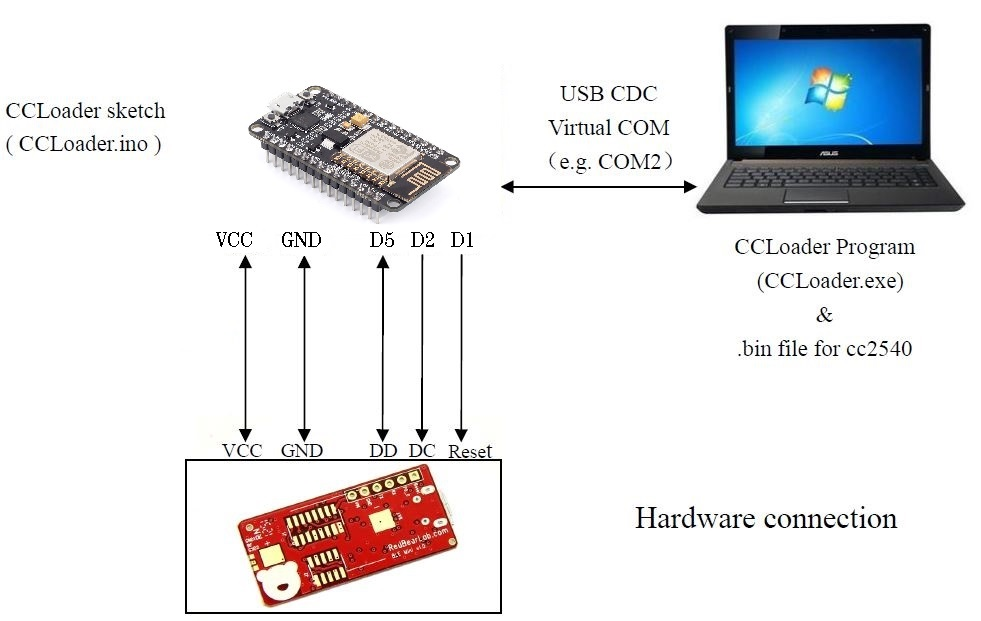
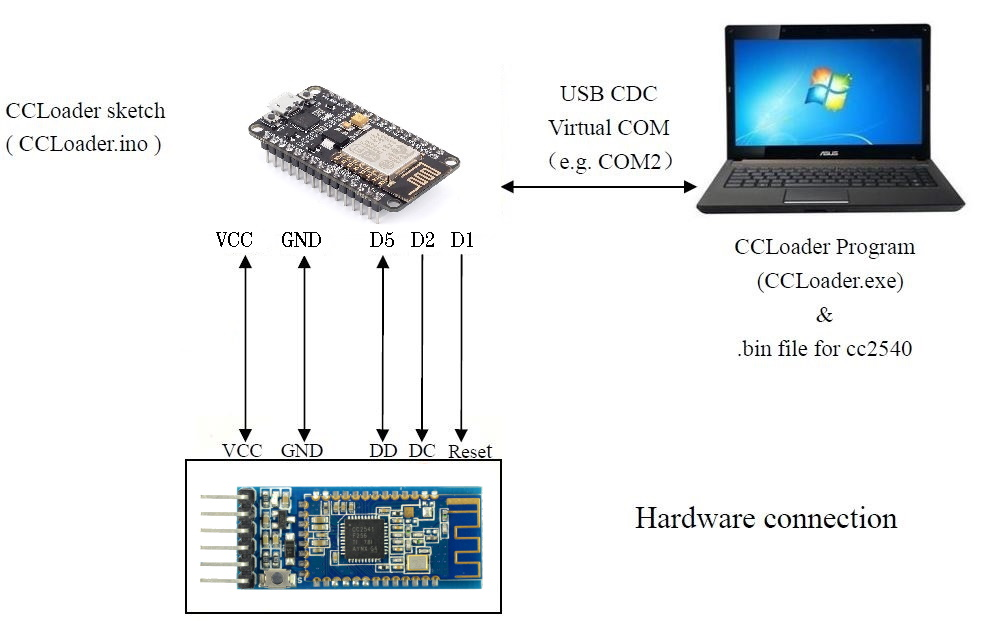
added images, cleared up flashing instructions

Changed region(s): [[0.1835, 0.7343, 0.4893, 0.9791]]

diff --git a/README.md b/README.md
@@ -5,27 +5,44 @@ Burn CC25xx/HM10 firmware using a NodeMCU or Wemos D1 mini.
 
 Flashing CC2530 or CC2531
 ==========================
-Use the files provided in folder [`Bin`](/Bin) The Hex files are already converted and ready to flash via CCLoader<br>
-More [Zigbee](https://www.zigbee2mqtt.io/information/alternative_flashing_methods.html) infos.
+Use the files provided in folder [`Bin`](/Bin). The Hex files are already converted and ready to flash with CCLoader<br>
+More [Zigbee](https://www.zigbee2mqtt.io/information/alternative_flashing_methods.html) information.
 
 Flashing HM10
 ==========================
-1. Load the already compiled [CCLoader Arduino firmware](/Bin/CCLoader_Arduino.bin) to the MCU board.
+1. Load the already compiled [CCLoader Arduino firmware](/Bin/CCLoader_Arduino.bin) to a NodeMCU/Wemos board.
 
-  ![image](hm-10-pinout.png)
-  ![image](cc2541_pin.png)
   
-2. Wire the pins:  
-  - DD (DEBUG_DATA Pin 8) to GPIO14 (D5 on NodeMCU/WeMos D1 Mini) <br>
-  - DC (DEBUG_CLOCK Pin 7) to GPIO4 (D2 on NodeMCU/WeMos D1 Mini) <br>
-  - RESET (RESET_N Pin 11) to GPIO5 (D1 on NodeMCU/WeMos D1 Mini) <br>
-  - GND (Pin 13) to GND <br>
-  - VCC (Pin 12) to 3.3V <br>
+2. Wire the pins:
 
-  ![image](CCLoader.jpg)
-3. Use CCLoader.exe to load the [CC2541hm10v707.bin](/Bin/CC2541hm10v707.bin) to burn the firmware via the NodeMCU to the HM-10 <br>
+| Pin Name | Pin# | NodeMCU/Wemos Pin | GPIO# |
+| --- | --- | --- | --- |  
+| P2_1 (DEBUG_DATA) | Pin #8 | D5 | GPIO14 |
+| P2_2 (DEBUG_CLOCK) | Pin #7 | D2 | GPIO4 |
+| RSTB (RESET_N)| Pin #11 | D1 | GPIO5 |
+| 3.3V | Pin #12 | 3.3V | |  
+| GND | Pin #13 | GND | |
+
+![image](hm-10-pinout.png)
+
+![image](wiring-HM-10.jpg)
+
+3. Use CCLoader.exe to load the [CC2541hm10v707.bin](/Bin/CC2541hm10v707.bin) firmware via the NodeMCU to the HM-10 with command:<br>
    `CCLoader_x86_64.exe [Number of the COM port] CC2541hm10v707.bin 0` <br>
-4. [Help Video](https://www.youtube.com/watch?v=ez3491-v8Og&lc=z23dzv5wvxrkghouvacdp43beqjns0ivud2tbkcab1xw03c010c.1542030938199060) <br>
-5. Up- and Downgrade to other firmwares you can do with [Manufacturer upgrade tool](http://www.jnhuamao.cn/download_rom_en.asp?id=). <br>
-[More Info](https://forum.arduino.cc/index.php?topic=393655.0)<br>  
+![image](CCLoader.jpg)
+
+4. You should see a result similar to
+
+![image](flash-success.jpg)
+
+### Troubleshooting
+If you're not sure the flash succeeded connect to HM-10 module over serial and issue `AT+VERR` commands which should show `v707`.
+
+If you cannot communicate with the HM-10 module even after a successful firmware flash change you serial terminal baudrate to 9600, then issue `AT+RENEW` command which should reset the module to firmware factory settings and the proper 115200 baudrate. 
+
+[Help Video](https://www.youtube.com/watch?v=ez3491-v8Og&lc=z23dzv5wvxrkghouvacdp43beqjns0ivud2tbkcab1xw03c010c.1542030938199060) <br>
+
+You can Up- and Downgrade to other firmwares using the [Manufacturer upgrade tool](http://www.jnhuamao.cn/download_rom_en.asp?id=). <br>
+
+[More Information](https://forum.arduino.cc/index.php?topic=393655.0)<br>  
 
